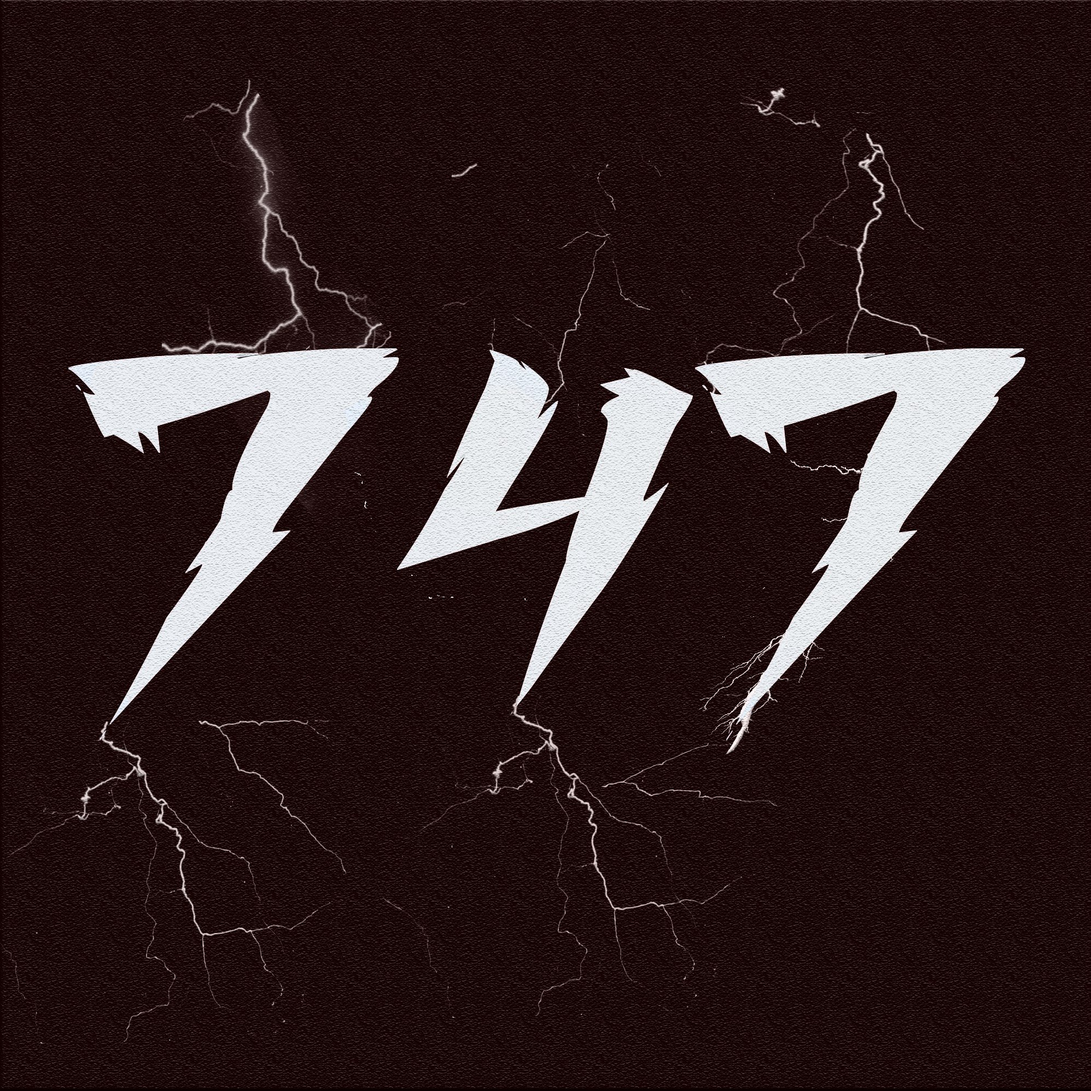
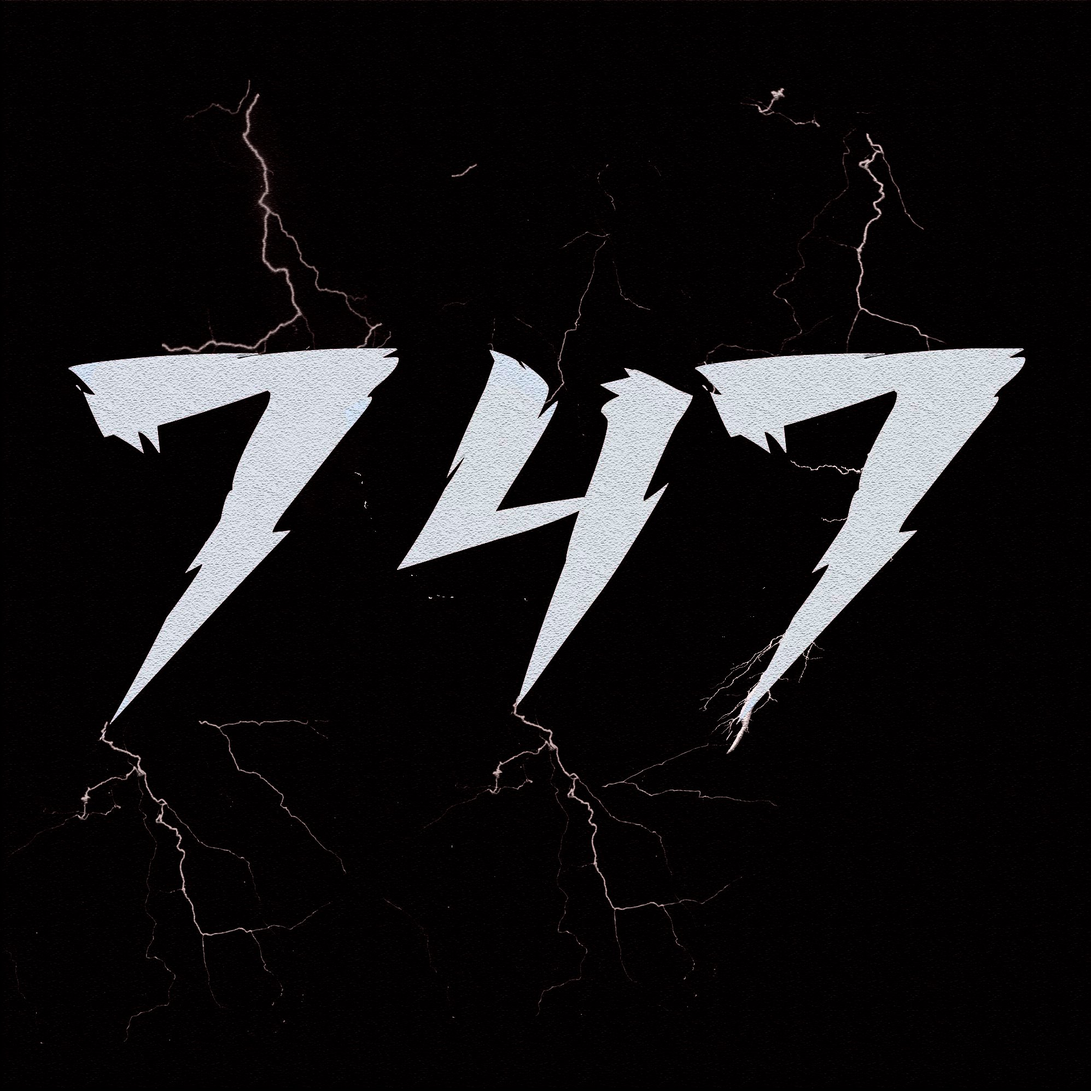
background
got rid of jumbotron (we can easliy add it back on)
added consistent background (please check if colour looks okay on different computers x)

diff --git a/styles.css b/styles.css
@@ -36,6 +36,11 @@
   flex-wrap:wrap;
 }
 
+body {
+  background-image: url('images/background.png');
+}
+
+
 img {
   display:flex;
   padding:20px;
@@ -48,11 +53,20 @@ img {
   filter: grayscale(100%);
 }
 
+.text-center {
+  color: white;
+}
+
+.display-4 {
+  color: white;
+}
+
 p {
   width: 40%;
   margin: 10vh 10vw;
   font-size: 2em;
   text-align: center;
+  color: white;
 }
 
 /* this doesn't really work soz */

diff --git a/index.html b/index.html
@@ -74,13 +74,16 @@
   </div>
 </div>
 
-<div class="jumbotron">
+<!-- <div class="jumbotron" id:"about-slides"> -->
+
+
   <h1 class="display-4">About us</h1>
   <p>
     Bristol-born upbeat indie rock band bringing you edgy beats from the depths of Bedminster
   </p>
   <hr class="my-4">
-</div>
+
+
 
   <div id="music">
   <p>
